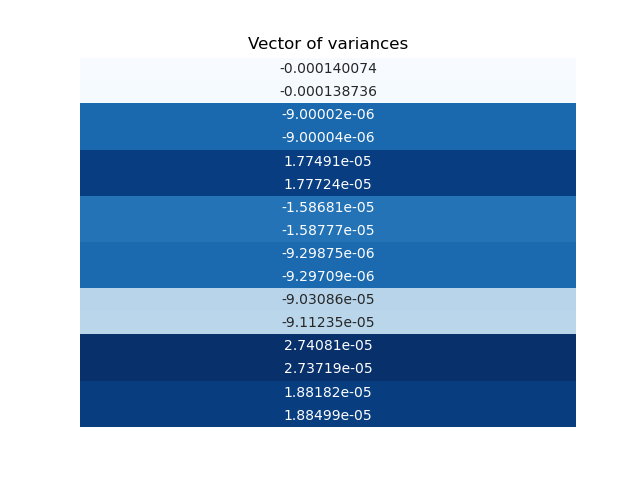
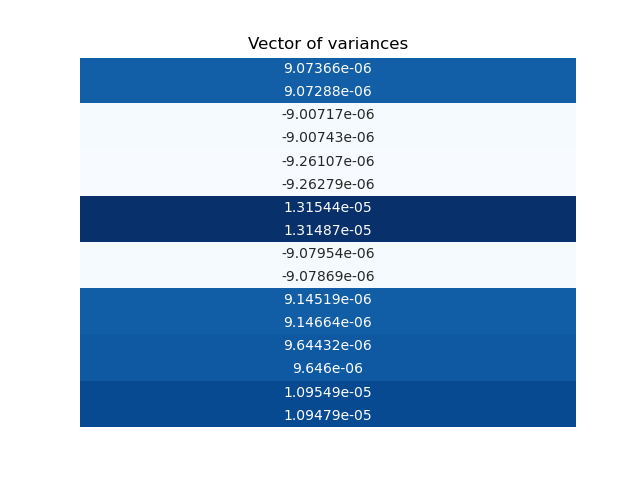
Update to elevations formula

diff --git a/Matrix_Computation_Classes.py b/Matrix_Computation_Classes.py
@@ -116,9 +116,10 @@ class Variance:
         x_s, y_s, z_s = self.sat_coords[0], self.sat_coords[1], self.sat_coords[2]
         x_r, y_r, z_r = self.receiver_coords[0], self.receiver_coords[1], self.receiver_coords[2]
 
+        r_s = sqrt((x_s - x_r)**2 + (y_s - y_r)**2 + (z_s - z_r)**2)
         ec_s = sqrt((sqrt(x_s ** 2 + y_s ** 2)) ** 2 + z_s ** 2)
         ec_r = sqrt((sqrt(x_r ** 2 + y_r ** 2)) ** 2 + z_r ** 2)
-        angle = degrees(acos((ec_r ** 2 + self.range_obs[0] ** 2 - ec_s ** 2) / (2 * ec_r * self.range_obs[0])))
+        angle = (degrees(acos((ec_r ** 2 + r_s ** 2 - ec_s ** 2) / (2 * ec_r * r_s)))) - 90
 
         variance = (self.l1_std ** 2) / sin(angle)
 

diff --git a/Computations.py b/Computations.py
@@ -567,6 +567,7 @@ if __name__ == "__main__":
     print(x_hat_out)
 
 
+
     print("X: ", X_hat[0], "Y:",  X_hat[1], "Z:", X_hat[2])
 
     newX = before_ambiguity_resolution[0] + X_hat[0]
